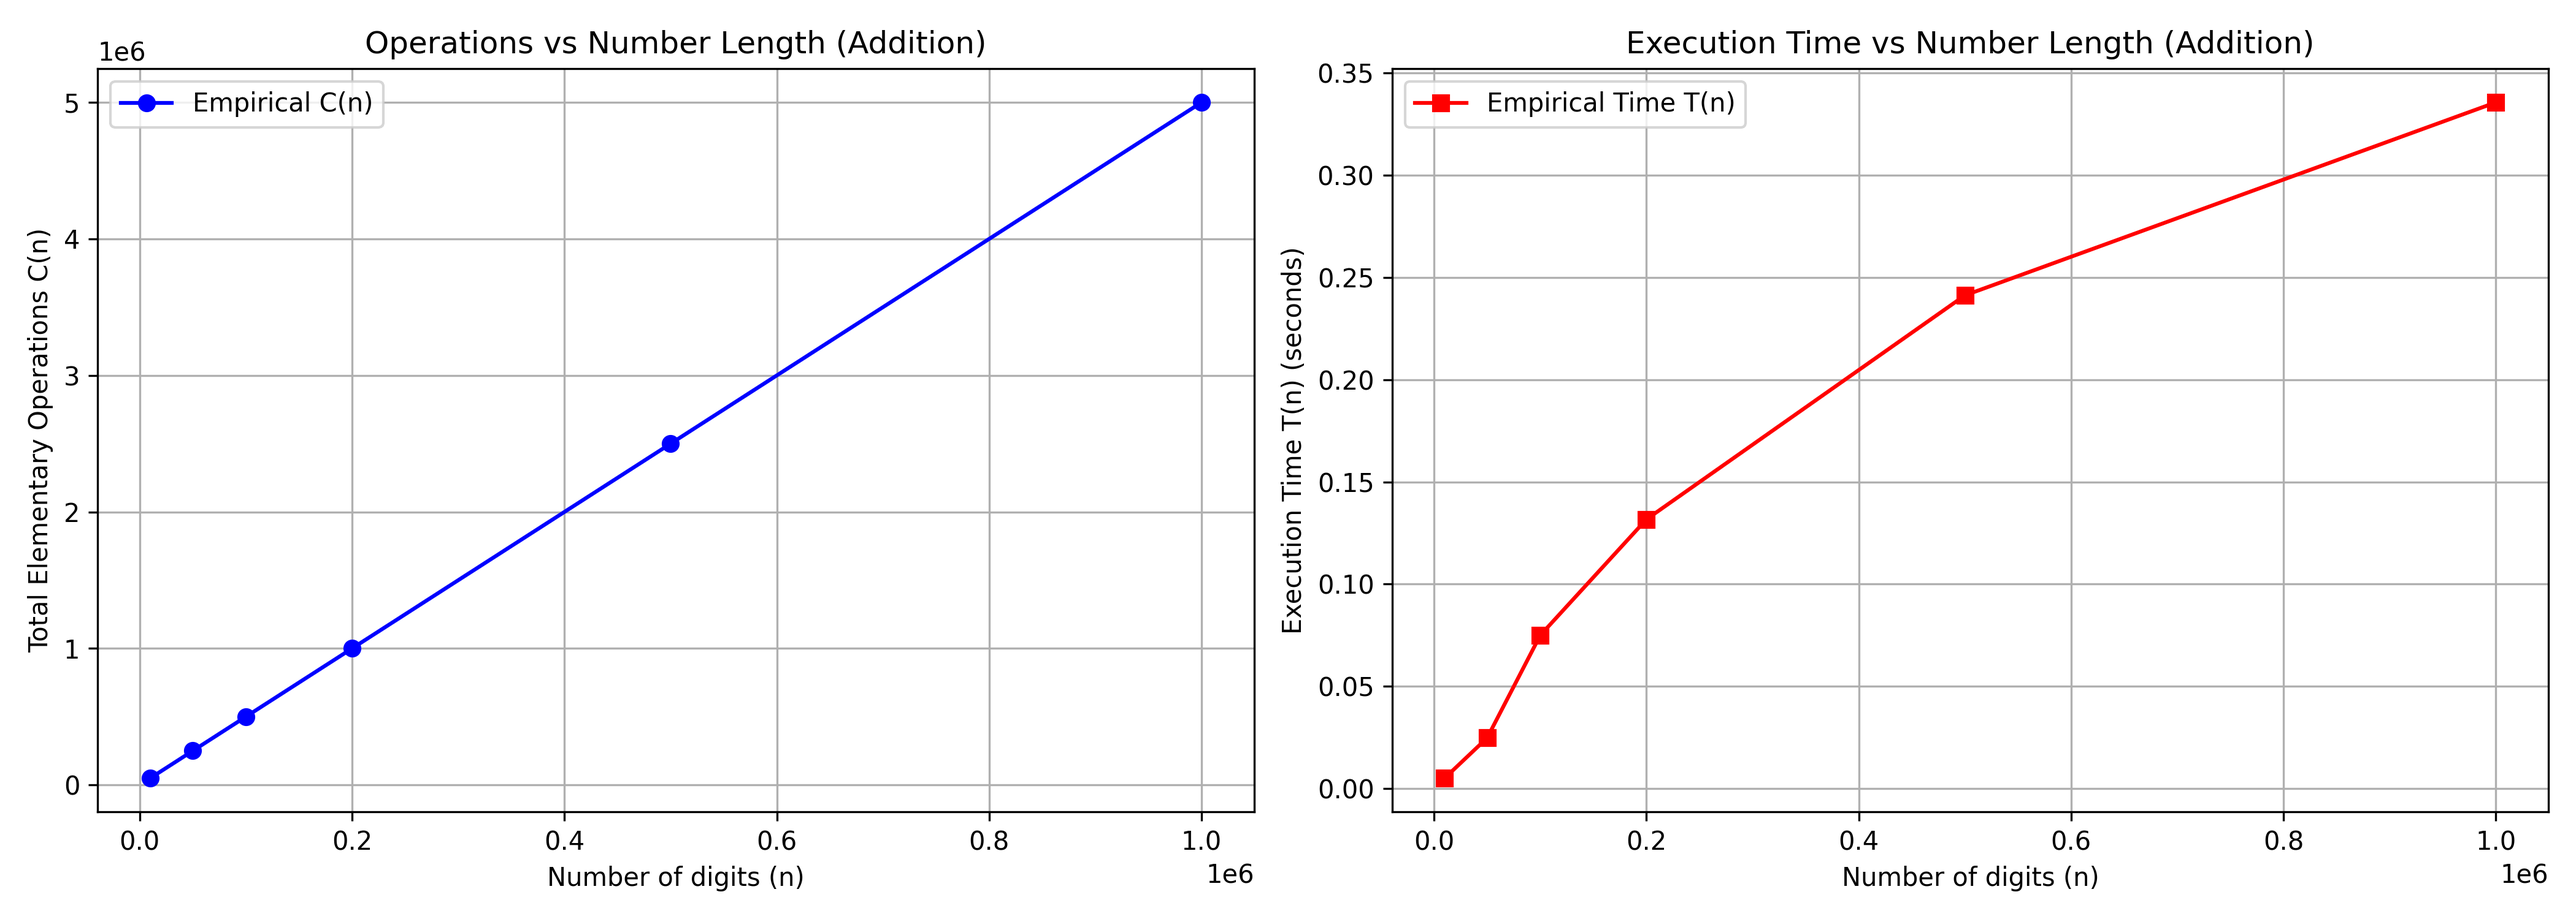
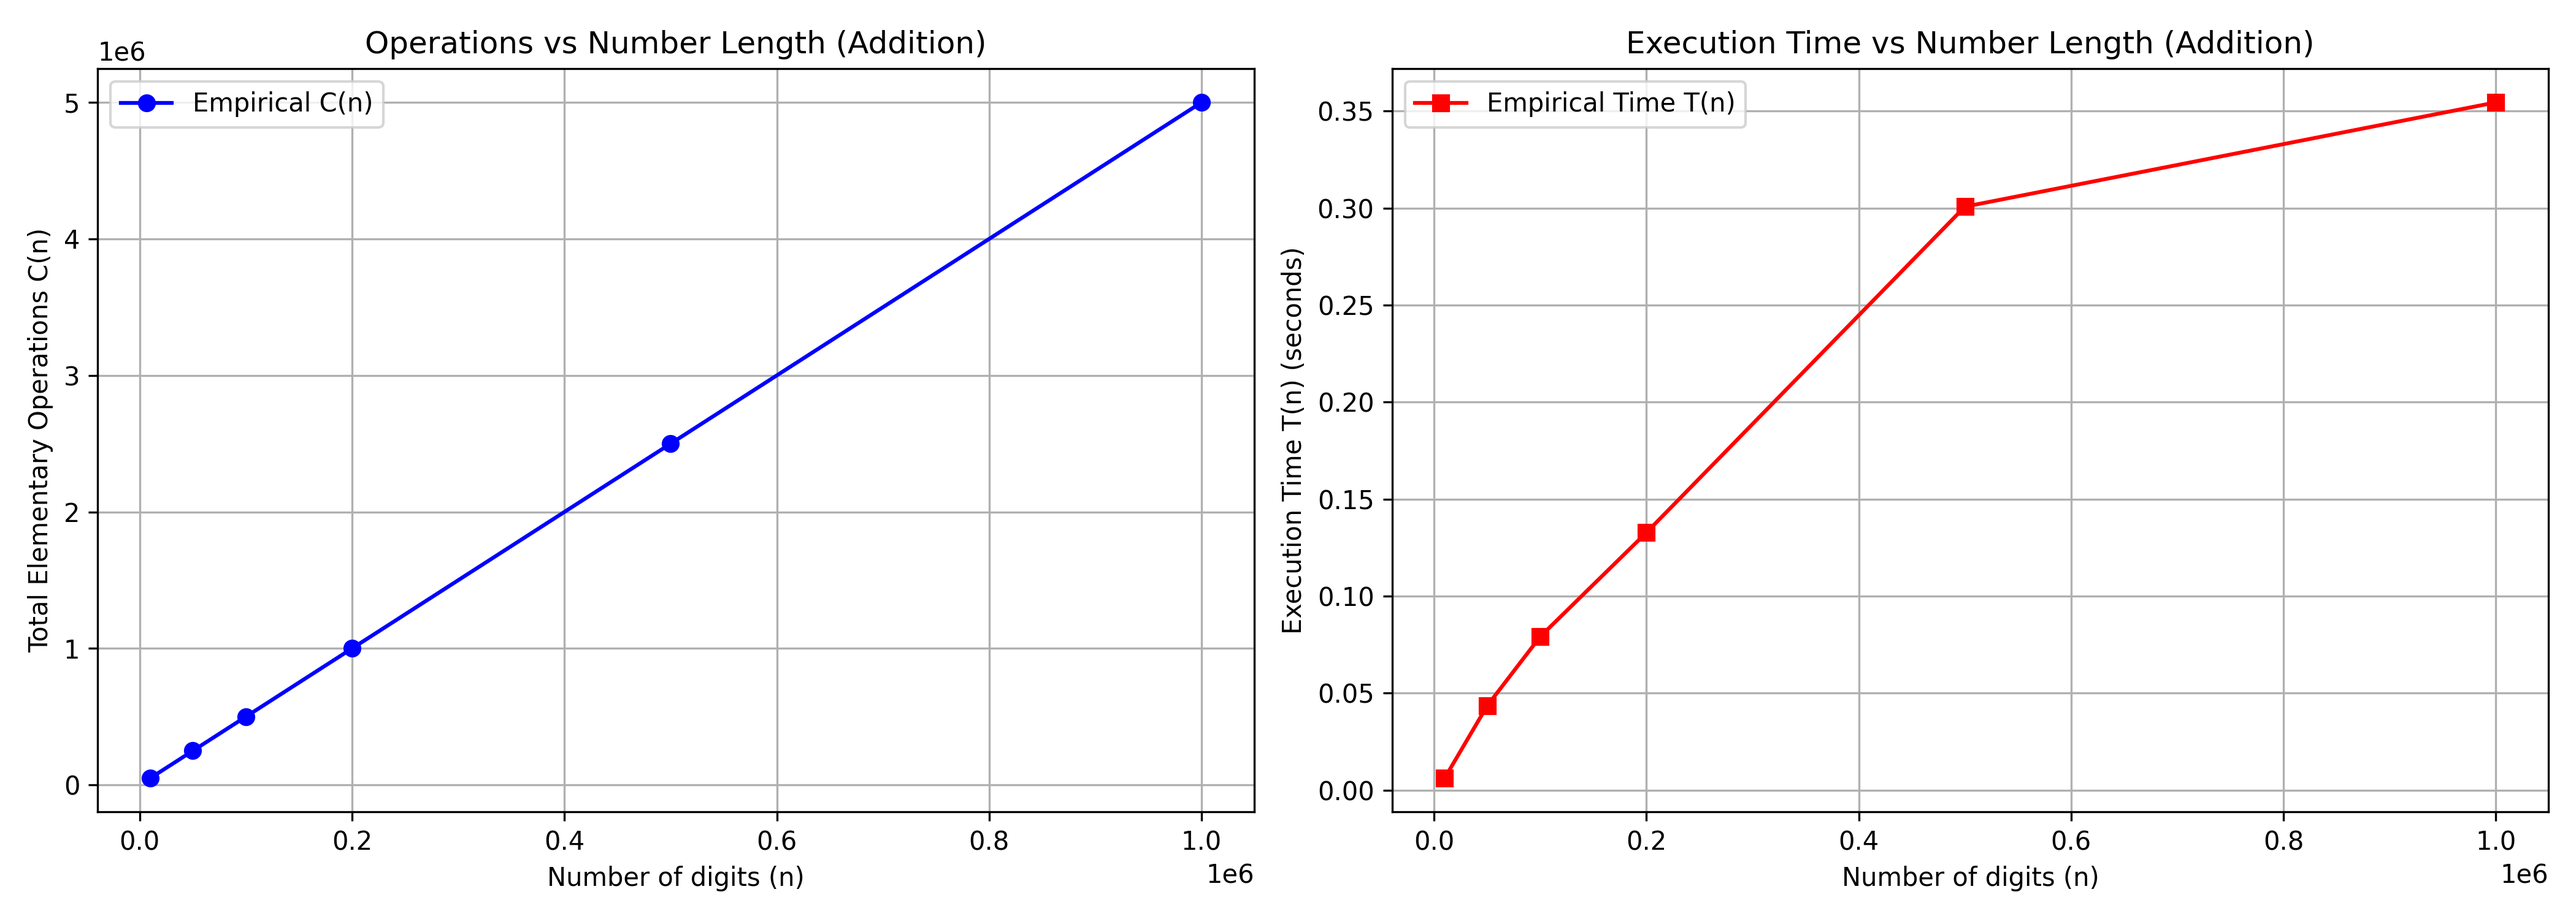
AAD_LAB_1_Finisehd

diff --git a/AAD/Lab_1_Turing_BigNumbers_Detonate/BigNumbers/bench_mul.py b/AAD/Lab_1_Turing_BigNumbers_Detonate/BigNumbers/bench_mul.py
@@ -10,34 +10,42 @@ from typing import Any
 from operations import OperationStats, BigInt
 from bench_add import ROOT_DIR
 
-FILE_PATH = "multiplication_experiment.png"
+FILE_PATH = "multiplication_base10_experiment.png"
 
 
-def generate_binary(length: int) -> str:
-    return '1' + ''.join(random.choice(['0', '1']) for _ in range(length - 1))
+def generate_decimal(length: int) -> str:
+    """Generates a random decimal string of a given length."""
+    chars = "0123456789"
+    first = random.choice(chars[1:])  # Ensure it doesn't start with 0
+    rest = ''.join(random.choice(chars) for _ in range(length - 1))
+    return first + rest
 
 
 def worker_single_mul_strategy(n: int, strategy_base: int) -> tuple[int, int, int, float]:
-    str_a = generate_binary(n)
-    str_b = generate_binary(n)
+    """
+    Executes exactly ONE multiplication test.
+    Baseline is Base 10.
+    """
+    str_a = generate_decimal(n)
+    str_b = generate_decimal(n)
 
     stats = OperationStats()
 
-    if strategy_base == 2:
-        a2 = BigInt.from_string(str_a, 2, stats)
-        b2 = BigInt.from_string(str_b, 2, stats)
+    if strategy_base == 10:
+        a10 = BigInt.from_string(str_a, 10, stats)
+        b10 = BigInt.from_string(str_b, 10, stats)
 
         # Reset stats to count ONLY the multiplication operations
         stats.reset()
         t0 = time.perf_counter()
-        _ = a2 * b2
+        _ = a10 * b10
         t1 = time.perf_counter()
 
     else:
-        a_init = BigInt.from_string(str_a, 2, stats)
-        b_init = BigInt.from_string(str_b, 2, stats)
+        a_init = BigInt.from_string(str_a, 10, stats)
+        b_init = BigInt.from_string(str_b, 10, stats)
 
-        # Reset stats to count the ENTIRE pipeline: Conversions + Multiplication
+        # Reset stats to count the ENTIRE pipeline: Conversions + Multiplication + Final Conversion
         stats.reset()
         t0 = time.perf_counter()
 
@@ -45,7 +53,7 @@ def worker_single_mul_strategy(n: int, strategy_base: int) -> tuple[int, int, in
         b_conv = b_init.convert_to(strategy_base)
 
         c_conv = a_conv * b_conv
-        _ = c_conv.convert_to(2)
+        _ = c_conv.convert_to(10)
 
         t1 = time.perf_counter()
 
@@ -53,17 +61,17 @@ def worker_single_mul_strategy(n: int, strategy_base: int) -> tuple[int, int, in
 
 
 def run_optimized_multiplication_experiment() -> None:
-    lengths = [100, 250, 500, 1000, 2000, 4000]
-    strategies = [2, 8, 16, 32]
+    lengths = [100, 250, 500, 1000]
+    strategies = [10, 2, 8, 16, 32]
     runs_per_length = 3
 
     raw_results: defaultdict[int, defaultdict[int, dict[str, list[Any]]]] = defaultdict(
         lambda: defaultdict(lambda: {'ops': [], 'times': []})
     )
 
-    print("Submitting multiplication tasks to the CPU pool... Please wait.")
-    print(f"{'N (bits)':<10} | {'Base 2 Ops':<12} | {'Base 32 Ops':<12} | {'Base 2 (s)':<12} | {'Base 32 (s)':<12}")
-    print("-" * 65)
+    print("Submitting Base 10 multiplication tasks to the CPU pool... Please wait.")
+    print(f"{'N (digits)':<12} | {'Base 10 Ops':<12} | {'Base 2 Ops':<12} | {'Base 10 (s)':<12} | {'Base 2 (s)':<12}")
+    print("-" * 75)
 
     with ProcessPoolExecutor() as executor:
         futures = [
@@ -79,8 +87,8 @@ def run_optimized_multiplication_experiment() -> None:
             raw_results[n][base]['times'].append(t)
 
 
-    data_ops: dict[int, list[int]] = {2: [], 8: [], 16: [], 32: []}
-    data_time: dict[int, list[float]] = {2: [], 8: [], 16: [], 32: []}
+    data_ops: dict[int, list[int]] = {10: [], 2: [], 8: [], 16: [], 32: []}
+    data_time: dict[int, list[float]] = {10: [], 2: [], 8: [], 16: [], 32: []}
     sorted_lengths = sorted(lengths)
 
     for n in sorted_lengths:
@@ -91,25 +99,25 @@ def run_optimized_multiplication_experiment() -> None:
             data_ops[b].append(median_ops)
             data_time[b].append(median_time)
 
-        print(f"{n:<10} | {data_ops[2][-1]:<12} | {data_ops[32][-1]:<12} | {data_time[2][-1]:<12.5f} | {data_time[32][-1]:<12.5f}")
+        print(f"{n:<12} | {data_ops[10][-1]:<12} | {data_ops[2][-1]:<12} | {data_time[10][-1]:<12.5f} | {data_time[2][-1]:<12.5f}")
 
 
     _ , (ax1, ax2) = plt.subplots(1, 2, figsize=(15, 6))
-    colors = {2: 'red', 8: 'orange', 16: 'blue', 32: 'green'}
+    colors = {10: 'red', 2: 'purple', 8: 'orange', 16: 'blue', 32: 'green'}
 
     for b in strategies:
-        label = 'Direct Base 2' if b == 2 else f'Convert -> Mul -> Back (Base {b})'
+        label = 'Direct Base 10' if b == 10 else f'Convert -> Mul -> Back (Base {b})'
         ax1.plot(sorted_lengths, data_ops[b], marker='o', color=colors[b], label=label)
         ax2.plot(sorted_lengths, data_time[b], marker='s', color=colors[b], label=label)
 
-    ax1.set_title('Operations C(n): Direct vs Conversion')
-    ax1.set_xlabel('Length of binary string (N bits)')
+    ax1.set_title('Operations C(n): Direct Base 10 vs Conversion')
+    ax1.set_xlabel('Length of decimal string (N digits)')
     ax1.set_ylabel('Total Operations C(n)')
     ax1.grid(True)
     ax1.legend()
 
-    ax2.set_title('Time T(n): Direct vs Conversion')
-    ax2.set_xlabel('Length of binary string (N bits)')
+    ax2.set_title('Time T(n): Direct Base 10 vs Conversion')
+    ax2.set_xlabel('Length of decimal string (N digits)')
     ax2.set_ylabel('Time T(n) (seconds)')
     ax2.grid(True)
     ax2.legend()

diff --git a/AAD/Lab_1_Turing_BigNumbers_Detonate/BigNumbers/operations.py b/AAD/Lab_1_Turing_BigNumbers_Detonate/BigNumbers/operations.py
@@ -7,6 +7,7 @@ import string
 
 BaseRange = Annotated[int, "Must be an integer in range [2, 32]"]
 
+
 def _build_alphabet_mappings() -> tuple[dict[str, int], dict[int, str]]:
     char_to_int = {str(i): i for i in range(10)}
     int_to_char = {i: str(i) for i in range(10)}
@@ -83,15 +84,15 @@ class BigInt:
             carry = val
 
             for i in range(len(result)):
-                self.stats.multiplications += 1
-                self.stats.additions += 1
-                self.stats.divisions += 2 # Modulo and floor division
 
                 temp = result[i] * self.base + carry
                 result[i] = temp % target_base
                 carry = temp // target_base
 
                 self.stats.carries += 1
+                self.stats.multiplications += 1
+                self.stats.additions += 1
+                self.stats.divisions += 2 # Modulo and floor division
 
             while carry > 0:
                 self.stats.divisions += 2
@@ -216,7 +217,7 @@ class BigInt:
             if d < 0:
                 d += self.base
                 borrow = 1
-                self.stats.additions += 1  # For d += self.base
+                self.stats.additions += 1
             else:
                 borrow = 0
 

diff --git a/AAD/Lab_1_Turing_BigNumbers_Detonate/TuringMachine/turing_machine.py b/AAD/Lab_1_Turing_BigNumbers_Detonate/TuringMachine/turing_machine.py
@@ -146,6 +146,7 @@ if __name__ == "__main__":
     test_add_table: TypeTuringComandTable = {
         ('q0', '1') : ('q1', '_', 'R'),
         ('q1', '1') : ('q2', '_', 'R'),
+        ('q1', '_') : ('q_done', '_', 'R'),
         ('q2', '1') : ('q2', '1', 'R'),
         ('q2', '_') : ('q3', '1', 'R'),
         ('q3', '1') : ('q3', '1', 'R'),
@@ -172,7 +173,7 @@ if __name__ == "__main__":
         print_text_step(machine)
         visualizer.render(delay=2)
 
-    input_string = "11_111"
+    input_string = "1_1" #
     print(f"--- Starting execution for input: {input_string} ---")
 
     result = tm.run(input_string, on_step=sync_observer)

diff --git a/AAD/Lab_1_Turing_BigNumbers_Detonate/TuringMachine/turning_bench.py b/AAD/Lab_1_Turing_BigNumbers_Detonate/TuringMachine/turning_bench.py
@@ -30,6 +30,7 @@ def benchmark_turing_machine(transitions, end_states, lengths: list[int]):
 def plot_complexity_results(lengths: list[int], steps: list[int], times: list[int]) -> None:
 
     plt.figure(figsize=(13, 5))
+
     # Subplot 1: Algorithmic steps vs Input length
     plt.subplot(1, 2, 1)
     plt.plot(lengths, steps, marker='o', color='tab:blue', label='Measured Steps')
